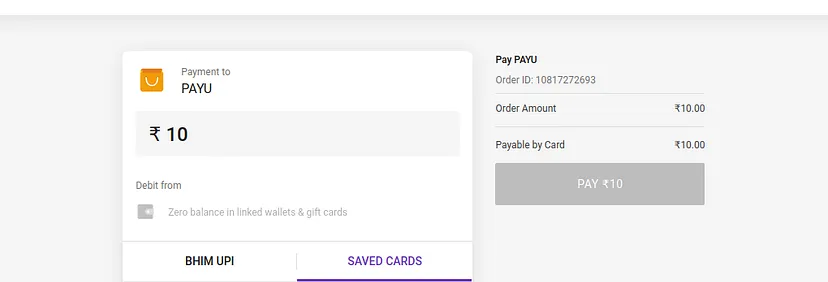
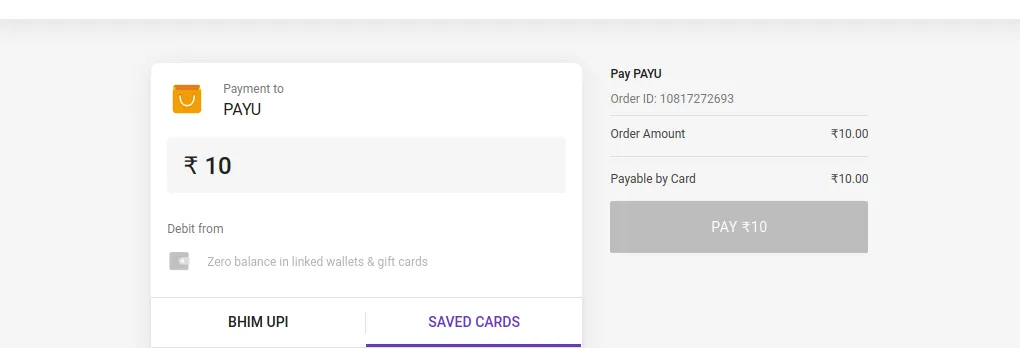
improved quality of images

diff --git a/src/components/BlogPages/7S3Leaking/S3Leaking.js b/src/components/BlogPages/7S3Leaking/S3Leaking.js
@@ -1,10 +1,10 @@
 import React from 'react'
 import Navbar from '../../Navbar'
 import Footer from '../../Footer'
-import imgOne from '../../../assets/7S3Leaking/one.jpg'
-import imgTwo from '../../../assets/7S3Leaking/two.jpg'
-import imgThree from '../../../assets/7S3Leaking/three.jpg'
-import imgFour from '../../../assets/7S3Leaking/four.jpg'
+import imgOne from '../../../assets/7S3Leaking/one.png'
+import imgTwo from '../../../assets/7S3Leaking/two.png'
+import imgThree from '../../../assets/7S3Leaking/three.png'
+import imgFour from '../../../assets/7S3Leaking/four.png'
 
 const S3Leaking = () => {
   return (
